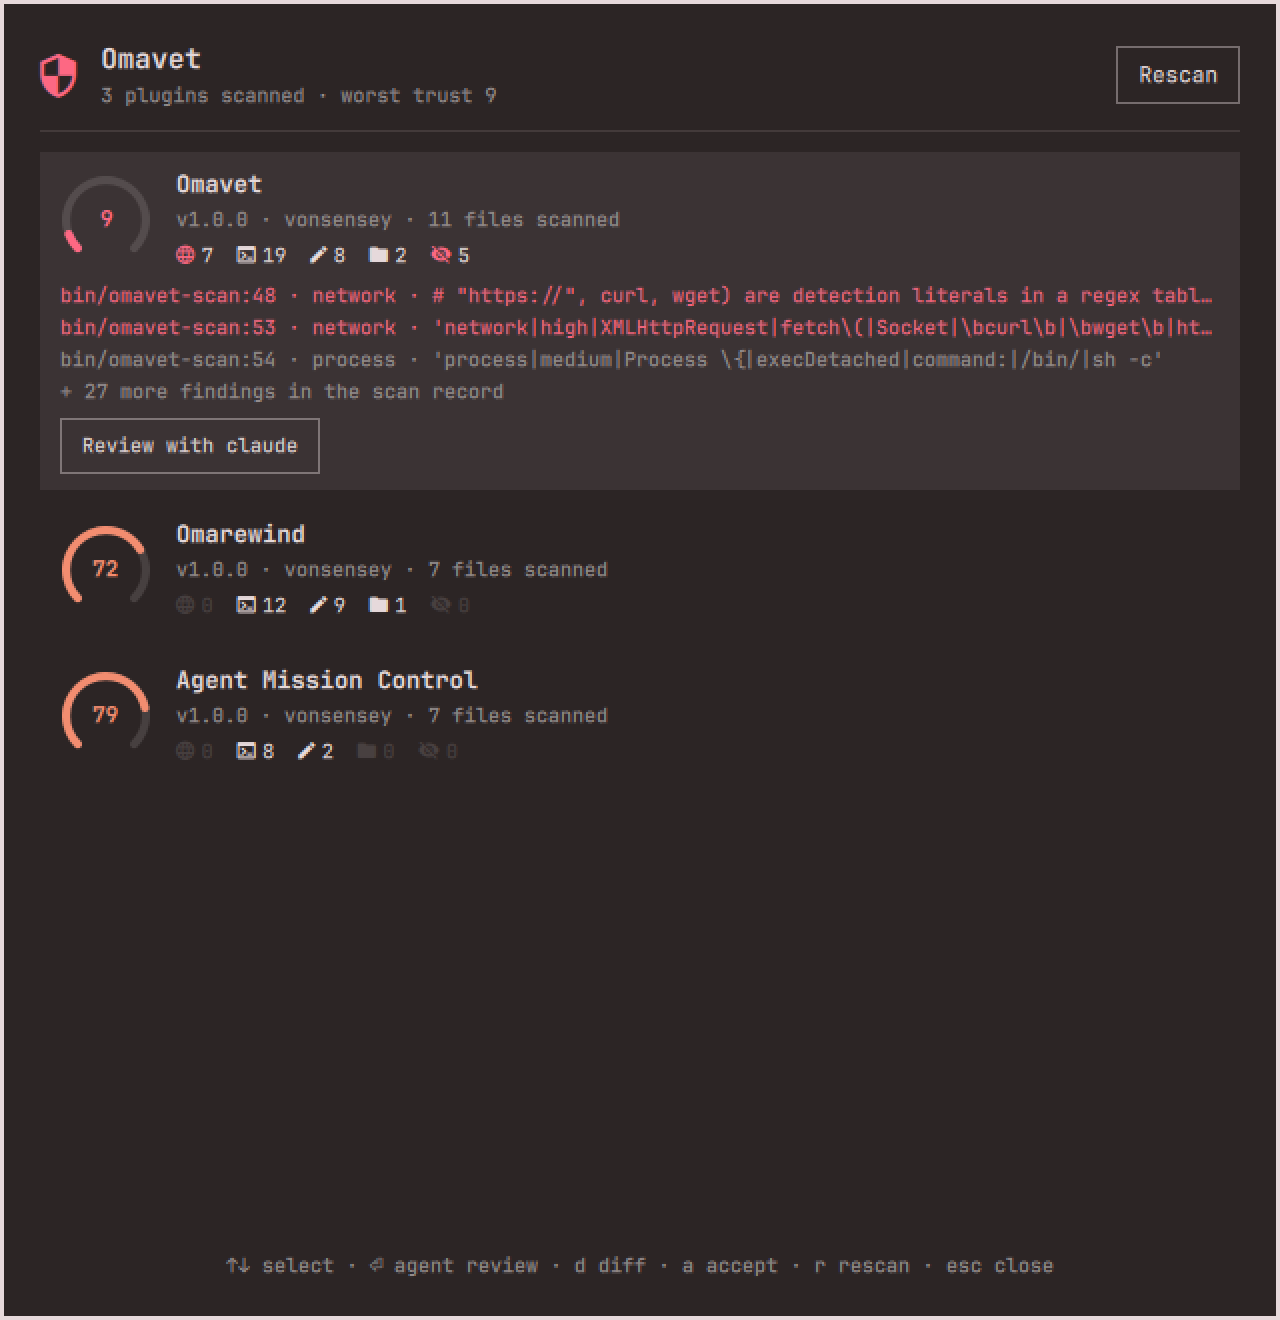
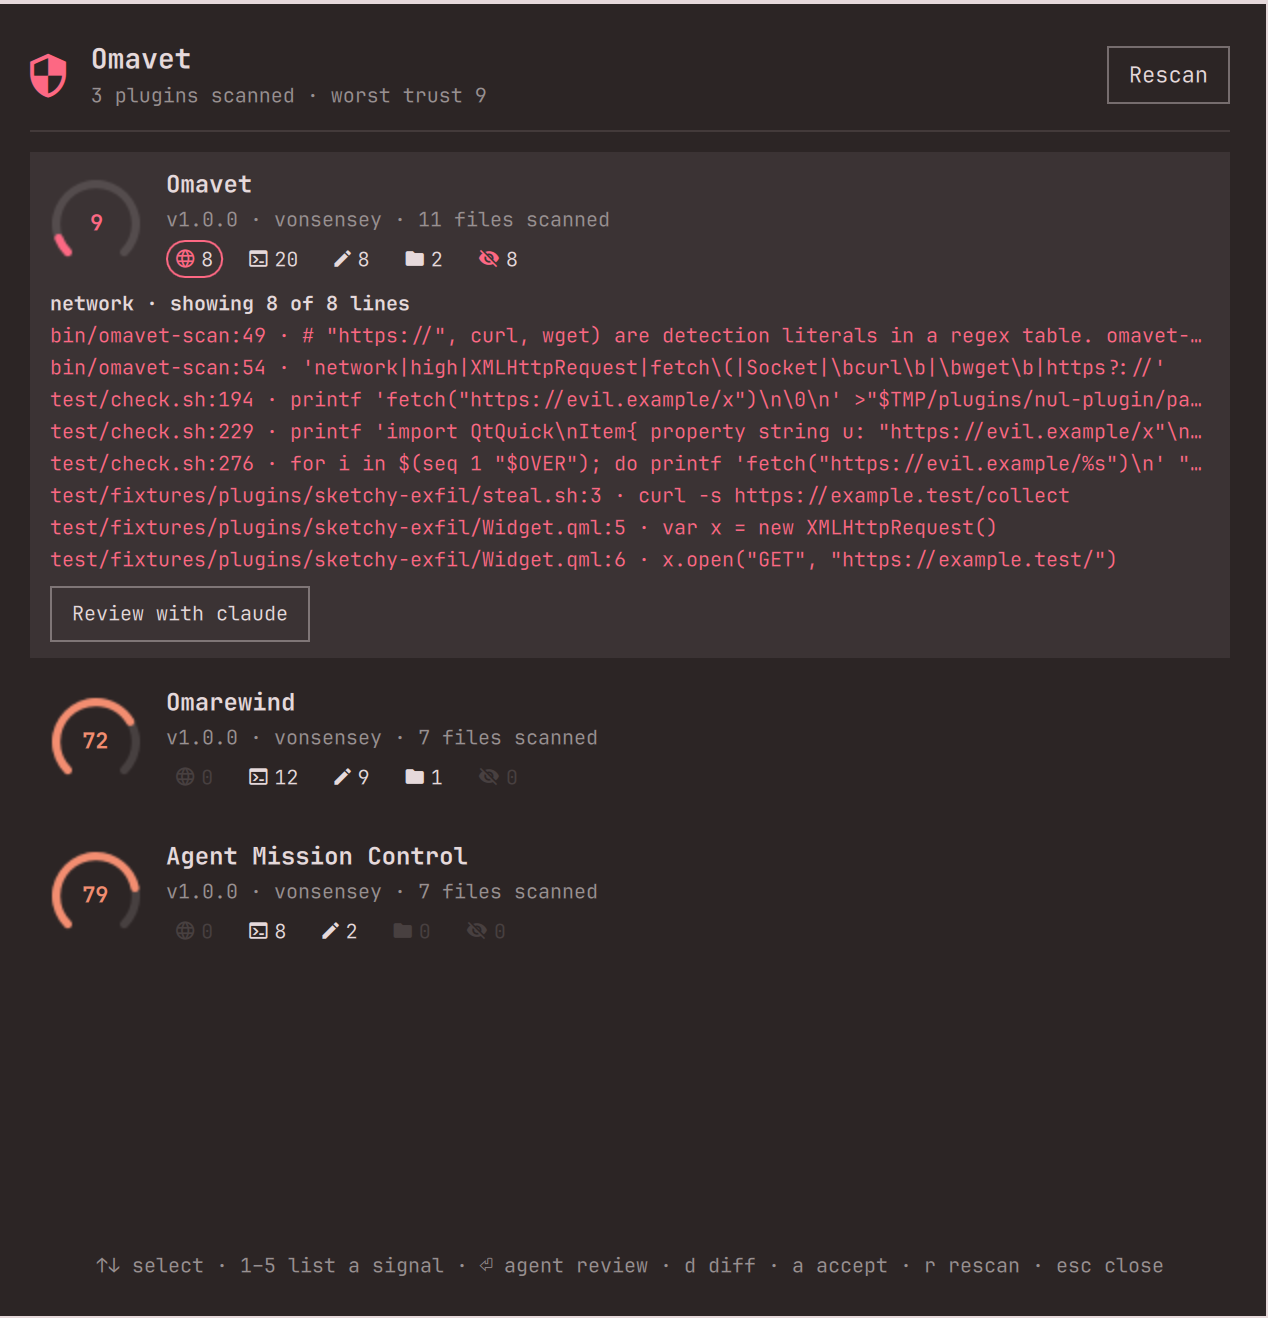
docs: preview shows the drill-down, not a three-commit-old panel
The committed shot predated the drill-down feature, the prompt fix and the
counting fix, so the public marketplace image advertised a dead-end line that
no longer exists. Recaptured with the network signal expanded, which is what
the panel is actually for.

diff --git a/PREVIEW.md b/PREVIEW.md
@@ -1,19 +1,28 @@
 # preview.png
 
-Captured live on 2026-08-20 from the running `omarchy-shell`: plugin enabled,
-panel summoned via `omarchy-shell shell summon io.github.vonsensey.omavet '{}'`,
-screenshot taken with `grim`. The panel's layer spans the whole screen (the
-PanelWindow anchors all four edges: centered card plus scrim), so `grim`
-captures the full screen and the image is then cropped down to the centered
-card. The scores shown are real scan output (omavet honestly reports its own
-capabilities — the vet does not exempt itself).
+Captured live on 2026-08-20 from the running `omarchy-shell`, with the network
+signal drilled into (`1`) so the shot shows what the panel is actually for:
+every line behind a capability, with `file:line` and the matching source.
+
+Everything in it is real scan output. Omavet's own low score is honest — it
+greps files, spawns processes, and reads other plugins' source by design, and
+several of the network lines shown are its own detection-pattern table and test
+fixtures. The vet does not exempt itself.
 
 To recapture:
 
 ```bash
 omarchy plugin enable io.github.vonsensey.omavet
-omarchy-shell shell summon io.github.vonsensey.omavet '{}'
-grim -g "$(hyprctl layers -j | jq -r '.. | objects | select(.namespace? == "omarchy-omavet") | "\(.x),\(.y) \(.w)x\(.h)"')" full.png
-# full.png is the whole screen (card + scrim); crop it to the centered card,
-# e.g. with `magick full.png -crop WxH+X+Y preview.png` or any image editor.
+omarchy-shell shell toggle io.github.vonsensey.omavet
+wtype "1"                                   # drill into the network signal
+GEO=$(hyprctl layers -j | jq -r '.. | objects
+  | select(.namespace? == "omarchy-omavet") | "\(.x),\(.y) \(.w)x\(.h)"' | head -1)
+grim -g "$GEO" full.png                      # the layer is the whole screen
+# then crop to the centred card (the panel anchors all four edges, so the
+# layer geometry is NOT the card geometry)
 ```
+
+A QML change is not live until proven live — the shell can serve a cached
+compiled component while hot-reload reports success. Restart the shell before
+capturing, or the screenshot documents the previous build. See
+`docs/solutions/developer-experience/qml-hot-reload-serves-a-stale-panel.md`.
